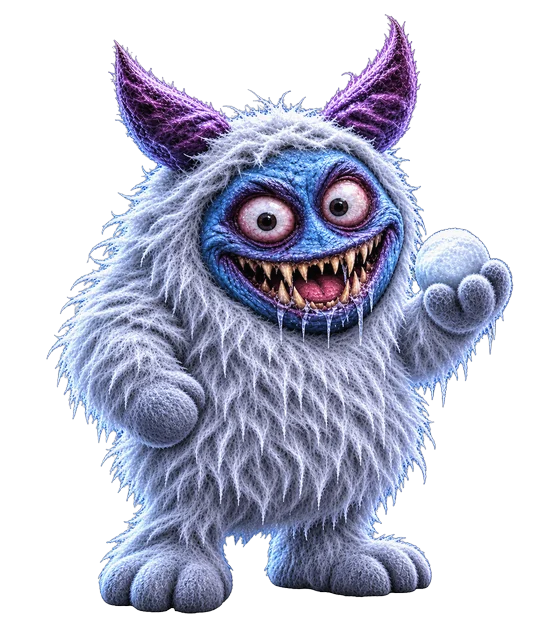
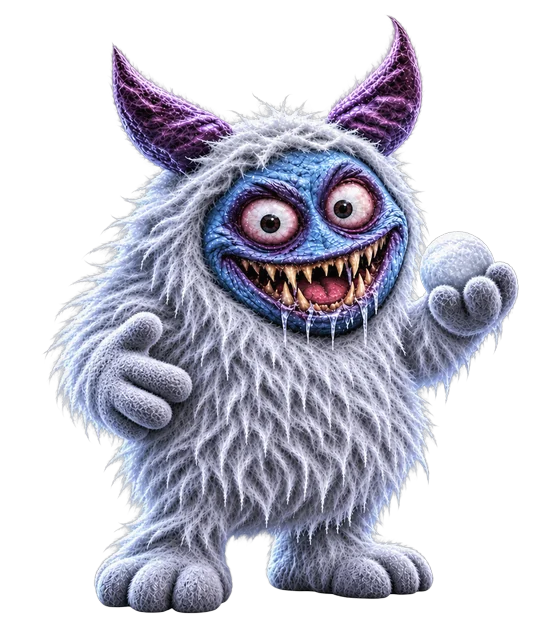
New idle Frostfang art; Frostfang peeks around the frame
- Updated frostfang_idle pose
- Peek art (side, top, bottom) slides in from behind the frame edges:
  near-miss gasp from the right, occasional peeks while spinning, cheer on 8x+ wins
- Phone layout gets the same peek layer

Claude-Session: https://claude.ai/code/session_01JWbc9z4oG3Xz8HupNtxEVe

diff --git a/index.html b/index.html
@@ -49,6 +49,20 @@ h1 span{background:linear-gradient(180deg,#ffe08a,var(--pump));-webkit-backgroun
 .frame>.grid{position:absolute;z-index:1;left:10%;right:10.2%;top:15.4%;bottom:21%;grid-template-rows:repeat(3,1fr);border-radius:4px}
 .frame>.grid .cell,.frame>.grid.moon .cell{aspect-ratio:auto;min-height:0}
 .frame.moonf{aspect-ratio:1600/1900}
+/* Frostfang peeking into the reel window: a clipped box over the reels, behind the stone frame, so his cut-off body hides under the stone */
+.peekbox{position:absolute;z-index:2;overflow:hidden;pointer-events:none;border-radius:4px}
+.peekbox.over{z-index:11}
+.peekbox img{position:absolute;max-width:none;transition:transform .26s cubic-bezier(.3,1.35,.55,1);will-change:transform;filter:drop-shadow(0 0 10px #000a)}
+.peekbox img.L{height:86%;left:0;bottom:-9%;transform:translateX(0)}
+.peekbox img.L.out{transform:translateX(-105%)}
+.peekbox img.R{height:86%;right:0;bottom:-9%;transform:scaleX(-1)}
+.peekbox img.R.out{transform:translateX(105%) scaleX(-1)}
+.peekbox img.T{height:54%;top:-6.5%;transform:scaleY(-1)}
+.peekbox img.T.out{transform:translateY(-105%) scaleY(-1)}
+.peekbox img.B,.peekbox img.W{height:52%;bottom:-2.5%;transform:translateY(0)}
+.peekbox img.W{bottom:-6.5%}
+.peekbox img.B.out,.peekbox img.W.out{transform:translateY(105%)}
+.peekbox img.out{transition-timing-function:ease-in}
 .frame.moonf::after{background-image:url(img/frame_bonus.webp)}
 .frame.moonf>.grid{left:11.6%;right:11.6%;top:8.6%;bottom:11.8%;grid-template-rows:repeat(8,1fr)}
 .grid{display:grid;grid-template-columns:repeat(5,1fr);gap:6px;background:#0a0620e6;border-radius:6px;padding:6px;position:relative;overflow:hidden}
@@ -227,6 +241,7 @@ button{font-family:inherit;cursor:pointer;border:none;color:#fff;font-weight:700
     <div class="frame">
       <div class="banner hidden" id="banner"><span id="bannerTxt"></span></div>
       <div class="grid" id="grid"><div id="beast" class="idle"></div></div>
+      <div class="peekbox" id="peekbox"></div>
       <div class="bubble" id="bubble"></div>
       <div class="msg hidden" id="msg"></div>
     </div>
@@ -1198,6 +1213,22 @@ let grid0=E.spinGrid(1,false);grid0.forEach((col,r)=>col.forEach((c,y)=>paint(y*
 
 // ---------- UI helpers ----------
 function banner(t,ice){$('banner').classList.toggle('hidden',!t);$('banner').classList.toggle('ice',!!ice);$('bannerTxt').textContent=t||''}
+// ---------- Frostfang peeks around the frame (base game only) ----------
+// kinds: L/R = from behind a side pillar, T = hanging upside down from the top stone, B = sneaking up over the bottom ledge, W = popping up to cheer a win
+const PEEKIMG={L:'peek_side',R:'peek_side',T:'peek_top',B:'peek_bottom',W:'peek_top'};
+function peek(kind,ms,over){
+ const box=$('peekbox');if(!box||grid.classList.contains('moon')||inHold)return;
+ box.style.left=grid.offsetLeft+'px';box.style.top=grid.offsetTop+'px';box.style.width=grid.offsetWidth+'px';box.style.height=grid.offsetHeight+'px';
+ box.classList.toggle('over',!!over);box.innerHTML='';clearTimeout(peek.t);
+ const im=new Image();im.src='img/'+PEEKIMG[kind]+'.webp';im.className=kind+' out';im.alt='';
+ if(kind!=='L'&&kind!=='R'){ // keep him fully inside the window, toward the left or right side
+  const gw=grid.offsetWidth,gh=grid.offsetHeight,w=gh*(kind==='T'||kind==='W'?.54*720/464:.52*720/418),room=Math.max(0,gw-w-gw*.08);
+  const f=Math.random()<.5?Math.random()*.3:.7+Math.random()*.3;im.style.left=(gw*.04+room*f)+'px';}
+ box.appendChild(im);void im.offsetWidth;
+ requestAnimationFrame(()=>im.classList.remove('out'));
+ peek.t=setTimeout(()=>{im.classList.add('out');peek.t=setTimeout(()=>{if(im.parentNode)im.remove()},320)},Math.max(250,ms));
+}
+window.ffPeek=peek;
 function say(t,ms=1800){SOUND.say(t);const b=$('bubble');b.textContent=t;b.classList.add('on');clearTimeout(say.t);say.t=setTimeout(()=>b.classList.remove('on'),ms)}
 function showMsg(html){const m=$('msg');m.innerHTML=html;m.classList.remove('hidden')}
 function hideMsg(){$('msg').classList.add('hidden')}
@@ -1233,6 +1264,10 @@ async function spinReels(g){
  stops.forEach((s,r)=>{if(s.tease&&r>0)setTimeout(()=>SOUND.play('tease'),stops[r-1].t)});
  // moon chime only while the Moonrise can still happen: unbroken moons from reel 1, and enough reels left to reach 4
  const moonSnd=[];{let run=0,alive=true;for(let r=0;r<5;r++){const n=g[r].filter(c=>c.s==='M').length;if(!n)alive=false;run+=n;moonSnd.push(alive&&run+3*(4-r)>=4);}}
+ // Frostfang peeks: a gasp from the right pillar when the moon tease starts, otherwise now and then a quick peek before reel 1 lands
+ if(ROWS===3&&!inHold){const tr=stops.findIndex((s,r)=>s.tease&&r>0);
+  if(tr>0){const a=stops[tr-1].t,d=stops[tr].t-a-380;if(d>300)setTimeout(()=>peek('R',d),a);}
+  else if(Math.random()<0.2&&stops[0].t>=650){const k='LRTB'[Math.random()*4|0];setTimeout(()=>peek(k,stops[0].t-420),60);}}
  await Promise.all([0,1,2,3,4].map(r=>spinColumn(r,g[r],ROWS,stops[r].t,r*90*T,stops[r].tease&&r>0?stops[r-1].t:null,rnd,moonSnd[r])));
  SOUND.spin(false);
 }
@@ -1328,7 +1363,7 @@ async function play(){
  const g=E.spinGrid(bet(),false);let hot=false;
  await spinReels(g);
  const ev=E.evaluate(g,bet());let total=ev.total;
- if(ev.total>0){await showWins(ev,g);await countUp($('win'),0,ev.total,Math.min(1500,300+ev.total/bet()*60));}
+ if(ev.total>0){if(ev.total>=bet()*8&&ev.total<bet()*20&&!ev.holdTrigger&&!ev.freeTrigger)setTimeout(()=>peek('W',1900),250);await showWins(ev,g);await countUp($('win'),0,ev.total,Math.min(1500,300+ev.total/bet()*60));}
  else $('winLine').textContent=ev.orbs>=6?`${ev.orbs} orbs! Hold & Spin!`:ev.orbs>=4?`${ev.orbs} orbs… so close! 6 starts the Hold & Spin.`:' ';
  if(ev.holdTrigger){await sleep(600);total+=await holdAndSpin(g,null);}
  if(ev.freeTrigger){await sleep(700);total+=await moonBonus();}
@@ -1337,7 +1372,7 @@ async function play(){
  if(auto){await sleep(total>0?900:350);if(auto)play();}
 }
 async function cheer(ms){pose('cheer');setTimeout(()=>pose('idle'),ms)}
-async function bigWin(total){SOUND.play('winBig');cheer(3500);showMsg(`<h2>${total>=bet()*50?'MONSTER WIN!':'BIG WIN!'}</h2><div class="big" id="bw">$0.00</div>`);await countUp($('bw'),0,total,2200);await sleep(1300);hideMsg();}
+async function bigWin(total){SOUND.play('winBig');cheer(3500);peek('W',3200,true);showMsg(`<h2>${total>=bet()*50?'MONSTER WIN!':'BIG WIN!'}</h2><div class="big" id="bw">$0.00</div>`);await countUp($('bw'),0,total,2200);await sleep(1300);hideMsg();}
 
 // ---------- Hold & Spin ----------
 async function holdAndSpin(g,fromFree){

diff --git a/mobile.html b/mobile.html
@@ -50,6 +50,20 @@ h1 span{background:linear-gradient(180deg,#ffe08a,var(--pump));-webkit-backgroun
 .frame>.grid{position:absolute;z-index:1;left:10%;right:10.2%;top:15.4%;bottom:21%;grid-template-rows:repeat(3,1fr);border-radius:4px}
 .frame>.grid .cell,.frame>.grid.moon .cell{aspect-ratio:auto;min-height:0}
 .frame.moonf{aspect-ratio:1600/1900}
+/* Frostfang peeking into the reel window: a clipped box over the reels, behind the stone frame, so his cut-off body hides under the stone */
+.peekbox{position:absolute;z-index:2;overflow:hidden;pointer-events:none;border-radius:4px}
+.peekbox.over{z-index:11}
+.peekbox img{position:absolute;max-width:none;transition:transform .26s cubic-bezier(.3,1.35,.55,1);will-change:transform;filter:drop-shadow(0 0 10px #000a)}
+.peekbox img.L{height:86%;left:0;bottom:-9%;transform:translateX(0)}
+.peekbox img.L.out{transform:translateX(-105%)}
+.peekbox img.R{height:86%;right:0;bottom:-9%;transform:scaleX(-1)}
+.peekbox img.R.out{transform:translateX(105%) scaleX(-1)}
+.peekbox img.T{height:54%;top:-6.5%;transform:scaleY(-1)}
+.peekbox img.T.out{transform:translateY(-105%) scaleY(-1)}
+.peekbox img.B,.peekbox img.W{height:52%;bottom:-2.5%;transform:translateY(0)}
+.peekbox img.W{bottom:-6.5%}
+.peekbox img.B.out,.peekbox img.W.out{transform:translateY(105%)}
+.peekbox img.out{transition-timing-function:ease-in}
 .frame.moonf::after{background-image:url(img/frame_bonus.webp)}
 .frame.moonf>.grid{left:11.6%;right:11.6%;top:8.6%;bottom:11.8%;grid-template-rows:repeat(8,1fr)}
 .grid{display:grid;grid-template-columns:repeat(5,1fr);gap:6px;background:#0a0620e6;border-radius:6px;padding:6px;position:relative;overflow:hidden}
@@ -280,6 +294,7 @@ button{touch-action:manipulation;-webkit-tap-highlight-color:transparent}
     <div class="frame">
       <div class="banner hidden" id="banner"><span id="bannerTxt"></span></div>
       <div class="grid" id="grid"><div id="beast" class="idle"></div></div>
+      <div class="peekbox" id="peekbox"></div>
       <div class="bubble" id="bubble"></div>
       <div class="msg hidden" id="msg"></div>
     </div>
@@ -1256,6 +1271,22 @@ let grid0=E.spinGrid(1,false);grid0.forEach((col,r)=>col.forEach((c,y)=>paint(y*
 
 // ---------- UI helpers ----------
 function banner(t,ice){$('banner').classList.toggle('hidden',!t);$('banner').classList.toggle('ice',!!ice);$('bannerTxt').textContent=t||''}
+// ---------- Frostfang peeks around the frame (base game only) ----------
+// kinds: L/R = from behind a side pillar, T = hanging upside down from the top stone, B = sneaking up over the bottom ledge, W = popping up to cheer a win
+const PEEKIMG={L:'peek_side',R:'peek_side',T:'peek_top',B:'peek_bottom',W:'peek_top'};
+function peek(kind,ms,over){
+ const box=$('peekbox');if(!box||grid.classList.contains('moon')||inHold)return;
+ box.style.left=grid.offsetLeft+'px';box.style.top=grid.offsetTop+'px';box.style.width=grid.offsetWidth+'px';box.style.height=grid.offsetHeight+'px';
+ box.classList.toggle('over',!!over);box.innerHTML='';clearTimeout(peek.t);
+ const im=new Image();im.src='img/'+PEEKIMG[kind]+'.webp';im.className=kind+' out';im.alt='';
+ if(kind!=='L'&&kind!=='R'){ // keep him fully inside the window, toward the left or right side
+  const gw=grid.offsetWidth,gh=grid.offsetHeight,w=gh*(kind==='T'||kind==='W'?.54*720/464:.52*720/418),room=Math.max(0,gw-w-gw*.08);
+  const f=Math.random()<.5?Math.random()*.3:.7+Math.random()*.3;im.style.left=(gw*.04+room*f)+'px';}
+ box.appendChild(im);void im.offsetWidth;
+ requestAnimationFrame(()=>im.classList.remove('out'));
+ peek.t=setTimeout(()=>{im.classList.add('out');peek.t=setTimeout(()=>{if(im.parentNode)im.remove()},320)},Math.max(250,ms));
+}
+window.ffPeek=peek;
 function say(t,ms=1800){SOUND.say(t);const b=$('bubble');b.textContent=t;b.classList.add('on');clearTimeout(say.t);say.t=setTimeout(()=>b.classList.remove('on'),ms)}
 function showMsg(html){const m=$('msg');m.innerHTML=html;m.classList.remove('hidden')}
 function hideMsg(){$('msg').classList.add('hidden')}
@@ -1291,6 +1322,10 @@ async function spinReels(g){
  stops.forEach((s,r)=>{if(s.tease&&r>0)setTimeout(()=>SOUND.play('tease'),stops[r-1].t)});
  // moon chime only while the Moonrise can still happen: unbroken moons from reel 1, and enough reels left to reach 4
  const moonSnd=[];{let run=0,alive=true;for(let r=0;r<5;r++){const n=g[r].filter(c=>c.s==='M').length;if(!n)alive=false;run+=n;moonSnd.push(alive&&run+3*(4-r)>=4);}}
+ // Frostfang peeks: a gasp from the right pillar when the moon tease starts, otherwise now and then a quick peek before reel 1 lands
+ if(ROWS===3&&!inHold){const tr=stops.findIndex((s,r)=>s.tease&&r>0);
+  if(tr>0){const a=stops[tr-1].t,d=stops[tr].t-a-380;if(d>300)setTimeout(()=>peek('R',d),a);}
+  else if(Math.random()<0.2&&stops[0].t>=650){const k='LRTB'[Math.random()*4|0];setTimeout(()=>peek(k,stops[0].t-420),60);}}
  await Promise.all([0,1,2,3,4].map(r=>spinColumn(r,g[r],ROWS,stops[r].t,r*90*T,stops[r].tease&&r>0?stops[r-1].t:null,rnd,moonSnd[r])));
  SOUND.spin(false);
 }
@@ -1386,7 +1421,7 @@ async function play(){
  const g=E.spinGrid(bet(),false);let hot=false;
  await spinReels(g);
  const ev=E.evaluate(g,bet());let total=ev.total;
- if(ev.total>0){await showWins(ev,g);await countUp($('win'),0,ev.total,Math.min(1500,300+ev.total/bet()*60));}
+ if(ev.total>0){if(ev.total>=bet()*8&&ev.total<bet()*20&&!ev.holdTrigger&&!ev.freeTrigger)setTimeout(()=>peek('W',1900),250);await showWins(ev,g);await countUp($('win'),0,ev.total,Math.min(1500,300+ev.total/bet()*60));}
  else $('winLine').textContent=ev.orbs>=6?`${ev.orbs} orbs! Hold & Spin!`:ev.orbs>=4?`${ev.orbs} orbs… so close! 6 starts the Hold & Spin.`:' ';
  if(ev.holdTrigger){await sleep(600);total+=await holdAndSpin(g,null);}
  if(ev.freeTrigger){await sleep(700);total+=await moonBonus();}
@@ -1395,7 +1430,7 @@ async function play(){
  if(auto){await sleep(total>0?900:350);if(auto)play();}
 }
 async function cheer(ms){pose('cheer');setTimeout(()=>pose('idle'),ms)}
-async function bigWin(total){SOUND.play('winBig');cheer(3500);showMsg(`<h2>${total>=bet()*50?'MONSTER WIN!':'BIG WIN!'}</h2><div class="big" id="bw">$0.00</div>`);await countUp($('bw'),0,total,2200);await sleep(1300);hideMsg();}
+async function bigWin(total){SOUND.play('winBig');cheer(3500);peek('W',3200,true);showMsg(`<h2>${total>=bet()*50?'MONSTER WIN!':'BIG WIN!'}</h2><div class="big" id="bw">$0.00</div>`);await countUp($('bw'),0,total,2200);await sleep(1300);hideMsg();}
 
 // ---------- Hold & Spin ----------
 async function holdAndSpin(g,fromFree){

diff --git a/src/ui.html b/src/ui.html
@@ -49,6 +49,20 @@ h1 span{background:linear-gradient(180deg,#ffe08a,var(--pump));-webkit-backgroun
 .frame>.grid{position:absolute;z-index:1;left:10%;right:10.2%;top:15.4%;bottom:21%;grid-template-rows:repeat(3,1fr);border-radius:4px}
 .frame>.grid .cell,.frame>.grid.moon .cell{aspect-ratio:auto;min-height:0}
 .frame.moonf{aspect-ratio:1600/1900}
+/* Frostfang peeking into the reel window: a clipped box over the reels, behind the stone frame, so his cut-off body hides under the stone */
+.peekbox{position:absolute;z-index:2;overflow:hidden;pointer-events:none;border-radius:4px}
+.peekbox.over{z-index:11}
+.peekbox img{position:absolute;max-width:none;transition:transform .26s cubic-bezier(.3,1.35,.55,1);will-change:transform;filter:drop-shadow(0 0 10px #000a)}
+.peekbox img.L{height:86%;left:0;bottom:-9%;transform:translateX(0)}
+.peekbox img.L.out{transform:translateX(-105%)}
+.peekbox img.R{height:86%;right:0;bottom:-9%;transform:scaleX(-1)}
+.peekbox img.R.out{transform:translateX(105%) scaleX(-1)}
+.peekbox img.T{height:54%;top:-6.5%;transform:scaleY(-1)}
+.peekbox img.T.out{transform:translateY(-105%) scaleY(-1)}
+.peekbox img.B,.peekbox img.W{height:52%;bottom:-2.5%;transform:translateY(0)}
+.peekbox img.W{bottom:-6.5%}
+.peekbox img.B.out,.peekbox img.W.out{transform:translateY(105%)}
+.peekbox img.out{transition-timing-function:ease-in}
 .frame.moonf::after{background-image:url(img/frame_bonus.webp)}
 .frame.moonf>.grid{left:11.6%;right:11.6%;top:8.6%;bottom:11.8%;grid-template-rows:repeat(8,1fr)}
 .grid{display:grid;grid-template-columns:repeat(5,1fr);gap:6px;background:#0a0620e6;border-radius:6px;padding:6px;position:relative;overflow:hidden}
@@ -227,6 +241,7 @@ button{font-family:inherit;cursor:pointer;border:none;color:#fff;font-weight:700
     <div class="frame">
       <div class="banner hidden" id="banner"><span id="bannerTxt"></span></div>
       <div class="grid" id="grid"><div id="beast" class="idle"></div></div>
+      <div class="peekbox" id="peekbox"></div>
       <div class="bubble" id="bubble"></div>
       <div class="msg hidden" id="msg"></div>
     </div>
@@ -434,6 +449,22 @@ let grid0=E.spinGrid(1,false);grid0.forEach((col,r)=>col.forEach((c,y)=>paint(y*
 
 // ---------- UI helpers ----------
 function banner(t,ice){$('banner').classList.toggle('hidden',!t);$('banner').classList.toggle('ice',!!ice);$('bannerTxt').textContent=t||''}
+// ---------- Frostfang peeks around the frame (base game only) ----------
+// kinds: L/R = from behind a side pillar, T = hanging upside down from the top stone, B = sneaking up over the bottom ledge, W = popping up to cheer a win
+const PEEKIMG={L:'peek_side',R:'peek_side',T:'peek_top',B:'peek_bottom',W:'peek_top'};
+function peek(kind,ms,over){
+ const box=$('peekbox');if(!box||grid.classList.contains('moon')||inHold)return;
+ box.style.left=grid.offsetLeft+'px';box.style.top=grid.offsetTop+'px';box.style.width=grid.offsetWidth+'px';box.style.height=grid.offsetHeight+'px';
+ box.classList.toggle('over',!!over);box.innerHTML='';clearTimeout(peek.t);
+ const im=new Image();im.src='img/'+PEEKIMG[kind]+'.webp';im.className=kind+' out';im.alt='';
+ if(kind!=='L'&&kind!=='R'){ // keep him fully inside the window, toward the left or right side
+  const gw=grid.offsetWidth,gh=grid.offsetHeight,w=gh*(kind==='T'||kind==='W'?.54*720/464:.52*720/418),room=Math.max(0,gw-w-gw*.08);
+  const f=Math.random()<.5?Math.random()*.3:.7+Math.random()*.3;im.style.left=(gw*.04+room*f)+'px';}
+ box.appendChild(im);void im.offsetWidth;
+ requestAnimationFrame(()=>im.classList.remove('out'));
+ peek.t=setTimeout(()=>{im.classList.add('out');peek.t=setTimeout(()=>{if(im.parentNode)im.remove()},320)},Math.max(250,ms));
+}
+window.ffPeek=peek;
 function say(t,ms=1800){SOUND.say(t);const b=$('bubble');b.textContent=t;b.classList.add('on');clearTimeout(say.t);say.t=setTimeout(()=>b.classList.remove('on'),ms)}
 function showMsg(html){const m=$('msg');m.innerHTML=html;m.classList.remove('hidden')}
 function hideMsg(){$('msg').classList.add('hidden')}
@@ -469,6 +500,10 @@ async function spinReels(g){
  stops.forEach((s,r)=>{if(s.tease&&r>0)setTimeout(()=>SOUND.play('tease'),stops[r-1].t)});
  // moon chime only while the Moonrise can still happen: unbroken moons from reel 1, and enough reels left to reach 4
  const moonSnd=[];{let run=0,alive=true;for(let r=0;r<5;r++){const n=g[r].filter(c=>c.s==='M').length;if(!n)alive=false;run+=n;moonSnd.push(alive&&run+3*(4-r)>=4);}}
+ // Frostfang peeks: a gasp from the right pillar when the moon tease starts, otherwise now and then a quick peek before reel 1 lands
+ if(ROWS===3&&!inHold){const tr=stops.findIndex((s,r)=>s.tease&&r>0);
+  if(tr>0){const a=stops[tr-1].t,d=stops[tr].t-a-380;if(d>300)setTimeout(()=>peek('R',d),a);}
+  else if(Math.random()<0.2&&stops[0].t>=650){const k='LRTB'[Math.random()*4|0];setTimeout(()=>peek(k,stops[0].t-420),60);}}
  await Promise.all([0,1,2,3,4].map(r=>spinColumn(r,g[r],ROWS,stops[r].t,r*90*T,stops[r].tease&&r>0?stops[r-1].t:null,rnd,moonSnd[r])));
  SOUND.spin(false);
 }
@@ -564,7 +599,7 @@ async function play(){
  const g=E.spinGrid(bet(),false);let hot=false;
  await spinReels(g);
  const ev=E.evaluate(g,bet());let total=ev.total;
- if(ev.total>0){await showWins(ev,g);await countUp($('win'),0,ev.total,Math.min(1500,300+ev.total/bet()*60));}
+ if(ev.total>0){if(ev.total>=bet()*8&&ev.total<bet()*20&&!ev.holdTrigger&&!ev.freeTrigger)setTimeout(()=>peek('W',1900),250);await showWins(ev,g);await countUp($('win'),0,ev.total,Math.min(1500,300+ev.total/bet()*60));}
  else $('winLine').textContent=ev.orbs>=6?`${ev.orbs} orbs! Hold & Spin!`:ev.orbs>=4?`${ev.orbs} orbs… so close! 6 starts the Hold & Spin.`:' ';
  if(ev.holdTrigger){await sleep(600);total+=await holdAndSpin(g,null);}
  if(ev.freeTrigger){await sleep(700);total+=await moonBonus();}
@@ -573,7 +608,7 @@ async function play(){
  if(auto){await sleep(total>0?900:350);if(auto)play();}
 }
 async function cheer(ms){pose('cheer');setTimeout(()=>pose('idle'),ms)}
-async function bigWin(total){SOUND.play('winBig');cheer(3500);showMsg(`<h2>${total>=bet()*50?'MONSTER WIN!':'BIG WIN!'}</h2><div class="big" id="bw">$0.00</div>`);await countUp($('bw'),0,total,2200);await sleep(1300);hideMsg();}
+async function bigWin(total){SOUND.play('winBig');cheer(3500);peek('W',3200,true);showMsg(`<h2>${total>=bet()*50?'MONSTER WIN!':'BIG WIN!'}</h2><div class="big" id="bw">$0.00</div>`);await countUp($('bw'),0,total,2200);await sleep(1300);hideMsg();}
 
 // ---------- Hold & Spin ----------
 async function holdAndSpin(g,fromFree){

diff --git a/tools/prep_peek.py b/tools/prep_peek.py
@@ -1,0 +1,9 @@
+# prep_peek.py: trims each peek pose to its fur and saves a compact webp (game slides them in from the reel-window edges)
+import numpy as np, os
+from PIL import Image
+for n,maxdim in [('peek_side',640),('peek_top',720),('peek_bottom',720)]:
+    im=Image.open(f'incoming/{n}.png').convert('RGBA'); a=np.asarray(im)[...,3]; ys,xs=np.where(a>12)
+    im=im.crop((xs.min(),ys.min(),xs.max()+1,ys.max()+1)); s=min(1,maxdim/max(im.size))
+    im=im.resize((round(im.width*s),round(im.height*s)),Image.LANCZOS); im.save(f'img/{n}.webp',quality=86,method=6)
+    a=np.asarray(im)[...,3]; prof=[int((a[y]>40).sum()) for y in range(0,im.height,max(1,im.height//20))]
+    print(n,im.size,os.path.getsize(f'img/{n}.webp')//1024,'KB rows',prof)

diff --git a/src/make_mobile.py b/src/make_mobile.py
@@ -23,6 +23,7 @@ u=u[:i]+'''<div class="cab m">
     <div class="frame">
       <div class="banner hidden" id="banner"><span id="bannerTxt"></span></div>
       <div class="grid" id="grid"><div id="beast" class="idle"></div></div>
+      <div class="peekbox" id="peekbox"></div>
       <div class="bubble" id="bubble"></div>
       <div class="msg hidden" id="msg"></div>
     </div>
